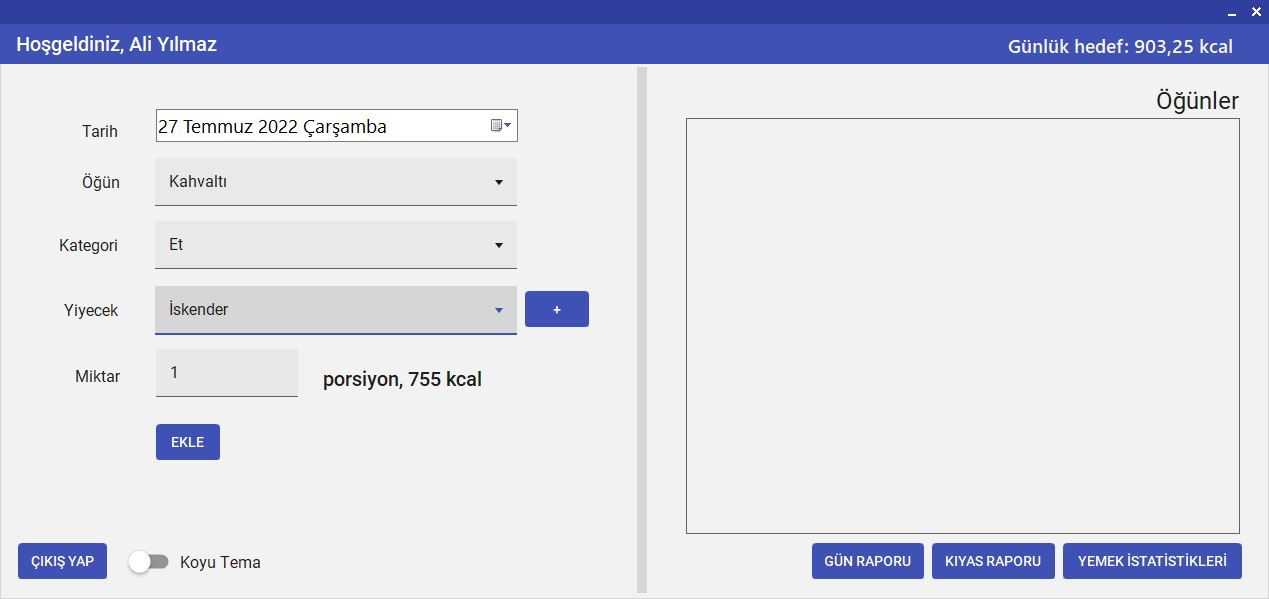
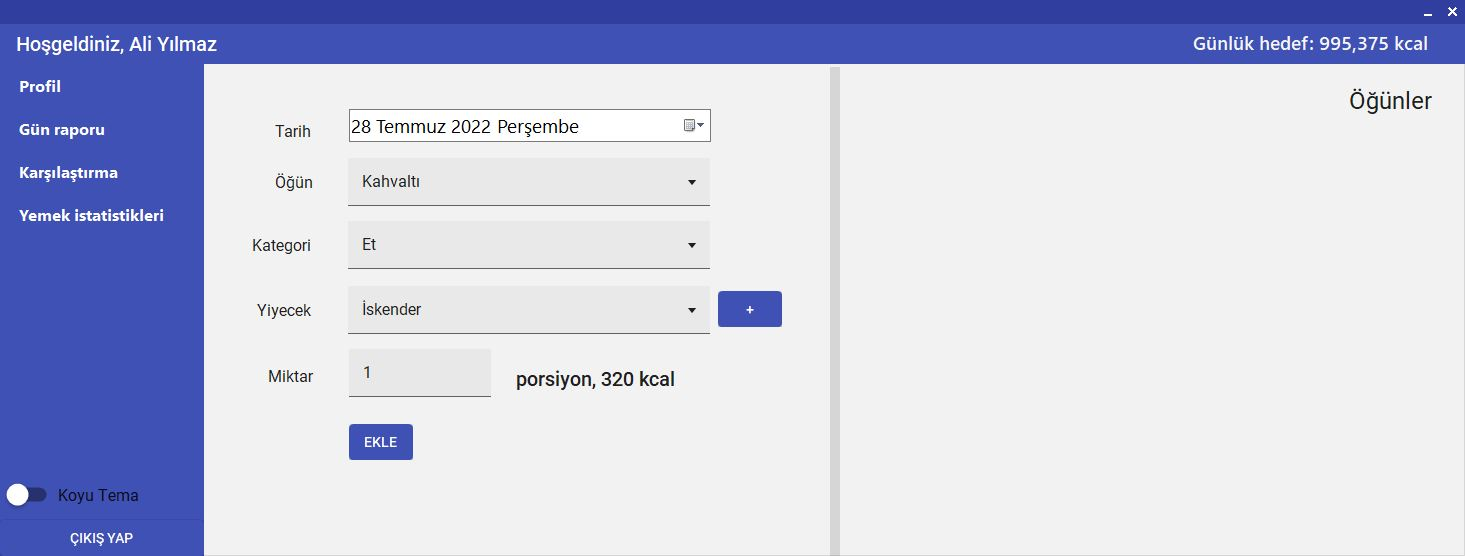
Slide updated

diff --git a/MyDietProgram/Properties/Resources.Designer.cs b/MyDietProgram/Properties/Resources.Designer.cs
@@ -63,26 +63,6 @@ namespace MyDietProgram.Properties {
         /// <summary>
         ///   Looks up a localized resource of type System.Drawing.Bitmap.
         /// </summary>
-        internal static System.Drawing.Bitmap Comparision {
-            get {
-                object obj = ResourceManager.GetObject("Comparision", resourceCulture);
-                return ((System.Drawing.Bitmap)(obj));
-            }
-        }
-        
-        /// <summary>
-        ///   Looks up a localized resource of type System.Drawing.Bitmap.
-        /// </summary>
-        internal static System.Drawing.Bitmap ComparisionCategory {
-            get {
-                object obj = ResourceManager.GetObject("ComparisionCategory", resourceCulture);
-                return ((System.Drawing.Bitmap)(obj));
-            }
-        }
-        
-        /// <summary>
-        ///   Looks up a localized resource of type System.Drawing.Bitmap.
-        /// </summary>
         internal static System.Drawing.Bitmap DailyReport {
             get {
                 object obj = ResourceManager.GetObject("DailyReport", resourceCulture);
@@ -96,16 +76,6 @@ namespace MyDietProgram.Properties {
         internal static System.Drawing.Bitmap FoodStats {
             get {
                 object obj = ResourceManager.GetObject("FoodStats", resourceCulture);
-                return ((System.Drawing.Bitmap)(obj));
-            }
-        }
-        
-        /// <summary>
-        ///   Looks up a localized resource of type System.Drawing.Bitmap.
-        /// </summary>
-        internal static System.Drawing.Bitmap Login {
-            get {
-                object obj = ResourceManager.GetObject("Login", resourceCulture);
                 return ((System.Drawing.Bitmap)(obj));
             }
         }
@@ -133,19 +103,9 @@ namespace MyDietProgram.Properties {
         /// <summary>
         ///   Looks up a localized resource of type System.Drawing.Bitmap.
         /// </summary>
-        internal static System.Drawing.Bitmap Main3 {
+        internal static System.Drawing.Bitmap MealEdit {
             get {
-                object obj = ResourceManager.GetObject("Main3", resourceCulture);
-                return ((System.Drawing.Bitmap)(obj));
-            }
-        }
-        
-        /// <summary>
-        ///   Looks up a localized resource of type System.Drawing.Bitmap.
-        /// </summary>
-        internal static System.Drawing.Bitmap MealEdit1 {
-            get {
-                object obj = ResourceManager.GetObject("MealEdit1", resourceCulture);
+                object obj = ResourceManager.GetObject("MealEdit", resourceCulture);
                 return ((System.Drawing.Bitmap)(obj));
             }
         }
@@ -163,9 +123,9 @@ namespace MyDietProgram.Properties {
         /// <summary>
         ///   Looks up a localized resource of type System.Drawing.Bitmap.
         /// </summary>
-        internal static System.Drawing.Bitmap Register1 {
+        internal static System.Drawing.Bitmap Overview {
             get {
-                object obj = ResourceManager.GetObject("Register1", resourceCulture);
+                object obj = ResourceManager.GetObject("Overview", resourceCulture);
                 return ((System.Drawing.Bitmap)(obj));
             }
         }
@@ -173,9 +133,9 @@ namespace MyDietProgram.Properties {
         /// <summary>
         ///   Looks up a localized resource of type System.Drawing.Bitmap.
         /// </summary>
-        internal static System.Drawing.Bitmap RegisterOK {
+        internal static System.Drawing.Bitmap Profile {
             get {
-                object obj = ResourceManager.GetObject("RegisterOK", resourceCulture);
+                object obj = ResourceManager.GetObject("Profile", resourceCulture);
                 return ((System.Drawing.Bitmap)(obj));
             }
         }

diff --git a/MyDietProgram/UI/TutorialForm.cs b/MyDietProgram/UI/TutorialForm.cs
@@ -20,18 +20,18 @@ namespace MyDietProgram.UI
                 Properties.Resources.Main1,
                 Properties.Resources.Main1,
                 Properties.Resources.Main2,
-                Properties.Resources.MealEdit1,
+                Properties.Resources.MealEdit,
                 Properties.Resources.NewFood,
                 Properties.Resources.DailyReport,
-                Properties.Resources.Comparision,
+                Properties.Resources.Overview,
                 Properties.Resources.FoodStats
             };
 
         string[] descArr = new string[] {
             "",
             "",
-            "Anasayfa'da gerekli alanları doldurarak yediğiniz yiyecek için bir kayıt oluşturun.\nSağ üst kısımda, kayıt olurken girdiğiniz bilgilere göre hesaplanan günlük olarak tüketmeniz gereken kalori miktarını görebilirsiniz.", // Main1
-            "Eklediğiniz bilgiler öğünler bölümüne eklenecektir.", //Main2
+            "Sağ üst kısımda, kayıt olurken girdiğiniz bilgilere göre hesaplanan günlük olarak tüketmeniz gereken kalori miktarını görebilirsiniz.",//Main1
+            "Anasayfa'da gerekli alanları doldurarak yediğiniz yiyeceklerin kaydını oluşturun. Eklediğiniz bilgiler öğünler bölümüne eklenir.", // Main2
             "Öğünün yanında yer alan düzenle butonuna basarak öğününüzün içeriğini düzenleyebilirsiniz.", //MealEdit
             "Yiyecekler listesinin yanındaki \"+\" butonuna tıklayarak yeni bir yiyecek oluşturabilirsiniz", //NewFood
             "Günlük Rapor'da geçerli tarihe ait kayıtlarınızı görebilirsiniz.", //DailyReport

diff --git a/MyDietProgram/UI/TutorialForm.Designer.cs b/MyDietProgram/UI/TutorialForm.Designer.cs
@@ -90,7 +90,7 @@
             this.pbxSlide.Location = new System.Drawing.Point(30, 18);
             this.pbxSlide.Name = "pbxSlide";
             this.pbxSlide.Size = new System.Drawing.Size(1271, 677);
-            this.pbxSlide.SizeMode = System.Windows.Forms.PictureBoxSizeMode.CenterImage;
+            this.pbxSlide.SizeMode = System.Windows.Forms.PictureBoxSizeMode.Zoom;
             this.pbxSlide.TabIndex = 2;
             this.pbxSlide.TabStop = false;
             // 
@@ -110,6 +110,7 @@
             // 
             // lblWelcome
             // 
+            this.lblWelcome.BackColor = System.Drawing.Color.Transparent;
             this.lblWelcome.Depth = 0;
             this.lblWelcome.Font = new System.Drawing.Font("Roboto", 48F, System.Drawing.FontStyle.Bold, System.Drawing.GraphicsUnit.Pixel);
             this.lblWelcome.FontType = MaterialSkin.MaterialSkinManager.fontType.H3;

diff --git a/MyDietProgram/UI/NewFoodForm.cs b/MyDietProgram/UI/NewFoodForm.cs
@@ -47,6 +47,7 @@ namespace MyDietProgram.UI
 
                 db.Foods.Add(newFood);
                 db.SaveChanges();
+                MessageBox.Show("İşlem başarılı.");
             }
         }
 
